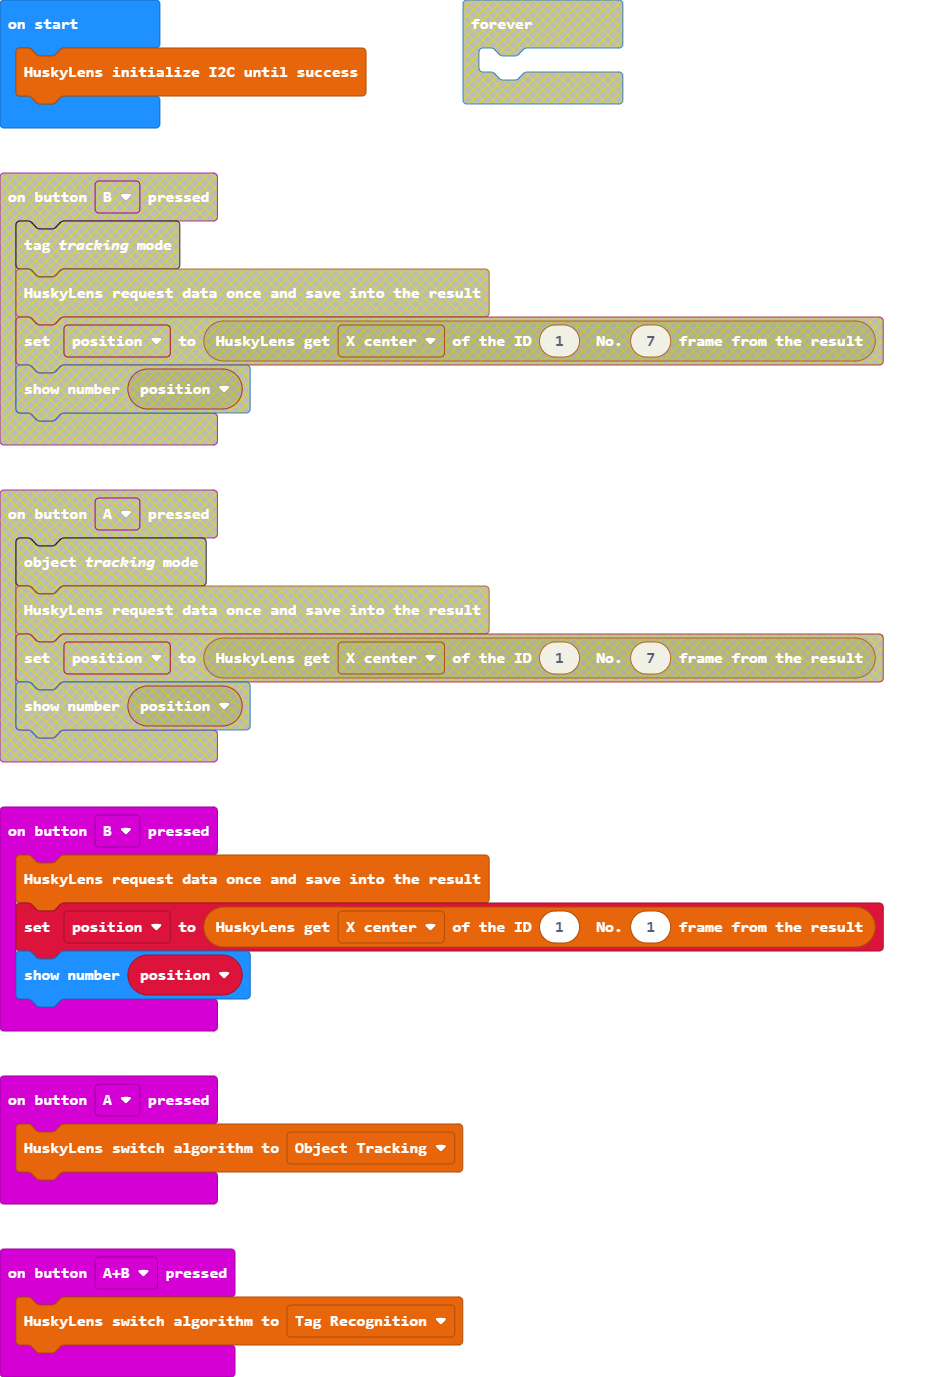
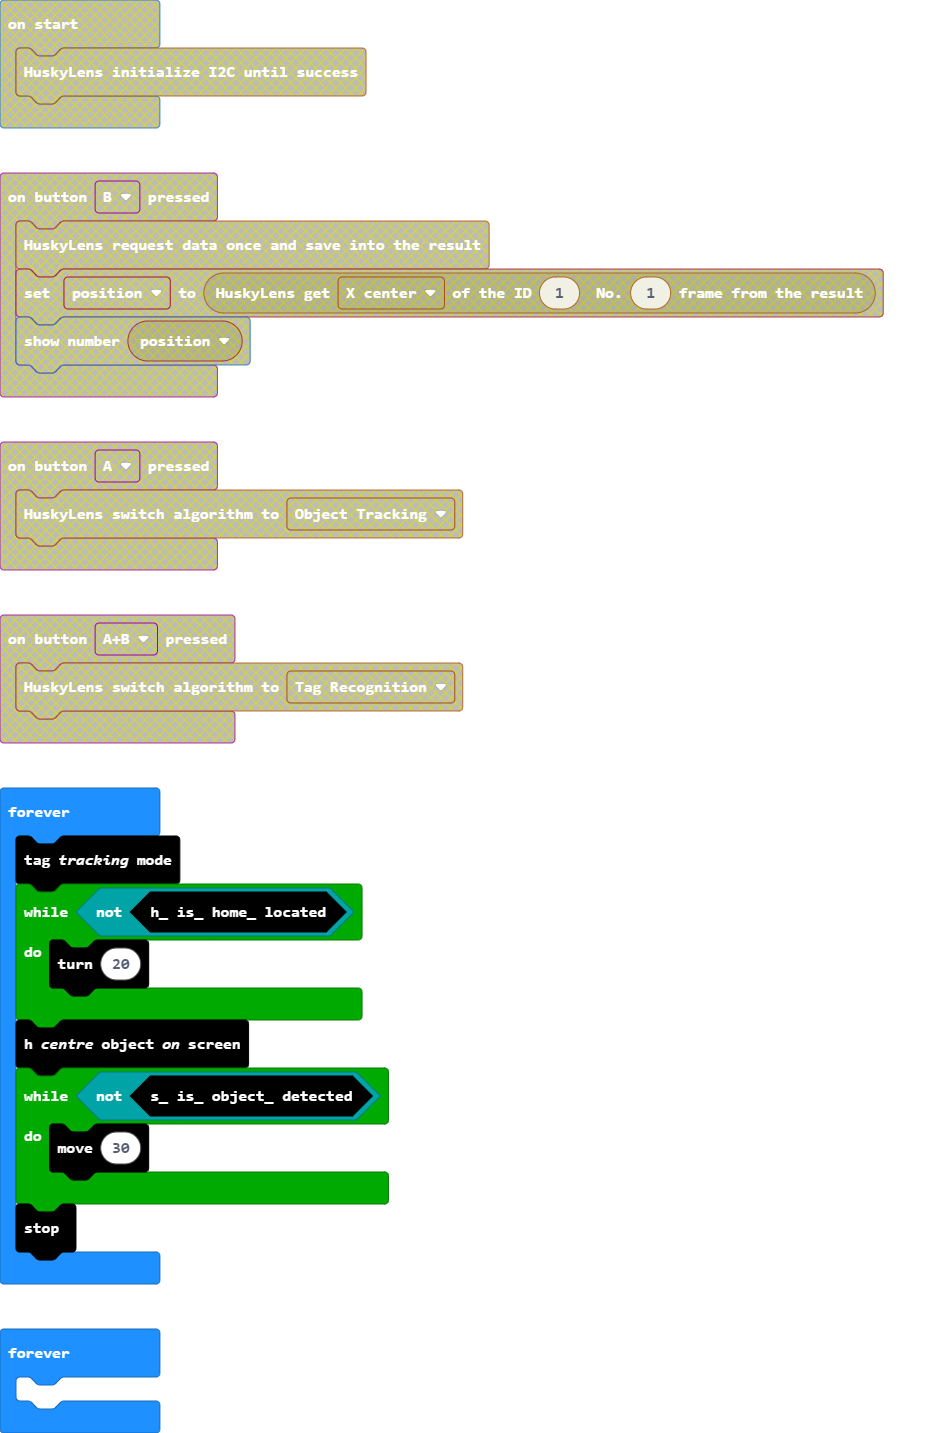
Update main.blocks, main.ts, custom.ts

diff --git a/custom.ts b/custom.ts
@@ -47,9 +47,30 @@ namespace MTS_RVR {
         else if (degree < 0){
             degree += 360
         }
+        basic.showNumber(degree)
         sphero.drive(0, degree)
         basic.pause(1000)
     }
+
+    /**
+     * The RVR will move in the heading specified. 
+     */
+    //% group="MTS_Movement"
+    //% blockGap=8
+    //% block
+    //% heading.min=-180 heading.max=180
+    export function testMovement(speed: number, heading: number): void {
+        degree += heading
+        if (degree > 359){
+            degree -= 360
+        }
+        else if (degree < 0){
+            degree += 360
+        }
+        sphero.drive(speed, degree)
+        basic.pause(1000)
+    }
+
 
     /**
      * The RVR will stop.  
@@ -85,7 +106,7 @@ namespace MTS_RVR {
     //% blockGap=8
     export function S_Is_Collision_Detected (): boolean {
         delay = 100
-    if (grove.measureInCentimeters(DigitalPin.P15) < 15) {
+    if (grove.measureInCentimeters(DigitalPin.P15) <= 20) {
         return true
         delay = 1500
     }
@@ -100,7 +121,7 @@ namespace MTS_RVR {
     //% blockGap=8
     export function S_Is_Object_Detected (): boolean {
         delay = 100
-    if (grove.measureInCentimeters(DigitalPin.P15) < 25) {
+    if (grove.measureInCentimeters(DigitalPin.P15) <= 25) {
         return true
         delay = 1500
     }
@@ -147,18 +168,20 @@ namespace MTS_RVR {
     //% block
     export function H_Centre_Object_On_Screen(): void {
         let position : number;
-        while (position < 140 || position > 180) {
+        huskylens.request();
+        position = huskylens.readeBox_index(1, 1, Content1.xCenter);
+        while (position < 150 || position > 170) {
             huskylens.request();
             position = huskylens.readeBox_index(1, 1, Content1.xCenter);
             huskylens.writeOSD(position.toString(), 150, 30)
-            if (position > 180) {
-                degree += 25
+            if (position > 150) {
+                degree -= 5
                 sphero.drive(0, degree);
-            } else {
-                degree -= 25
+            } else if (position < 170) {
+                degree += 5
                 sphero.drive(0, degree);
             }
-            basic.pause(300);
+            basic.pause(1000);
         }
     }
 

diff --git a/main.ts b/main.ts
@@ -1,13 +1,14 @@
-input.onButtonPressed(Button.A, function () {
-    huskylens.initMode(protocolAlgorithm.ALGORITHM_OBJECT_TRACKING)
+basic.forever(function () {
+    MTS_RVR.Tag_Tracking_Mode()
+    while (!(MTS_RVR.H_Is_Home_Located())) {
+        MTS_RVR.Turn(20)
+    }
+    MTS_RVR.H_Centre_Object_On_Screen()
+    while (!(MTS_RVR.S_Is_Object_Detected())) {
+        MTS_RVR.Move(30)
+    }
+    MTS_RVR.Stop()
 })
-input.onButtonPressed(Button.AB, function () {
-    huskylens.initMode(protocolAlgorithm.ALGORITHM_TAG_RECOGNITION)
+basic.forever(function () {
+	
 })
-input.onButtonPressed(Button.B, function () {
-    huskylens.request()
-    position = huskylens.readeBox_index(1, 1, Content1.xCenter)
-    basic.showNumber(position)
-})
-let position = 0
-huskylens.initI2c()
